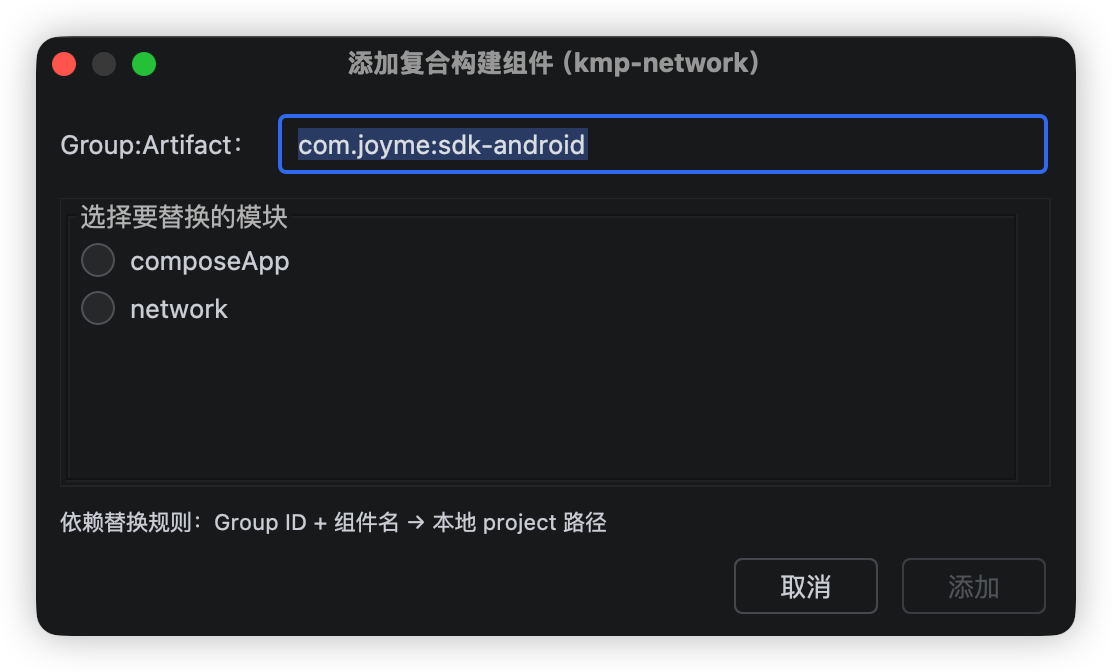
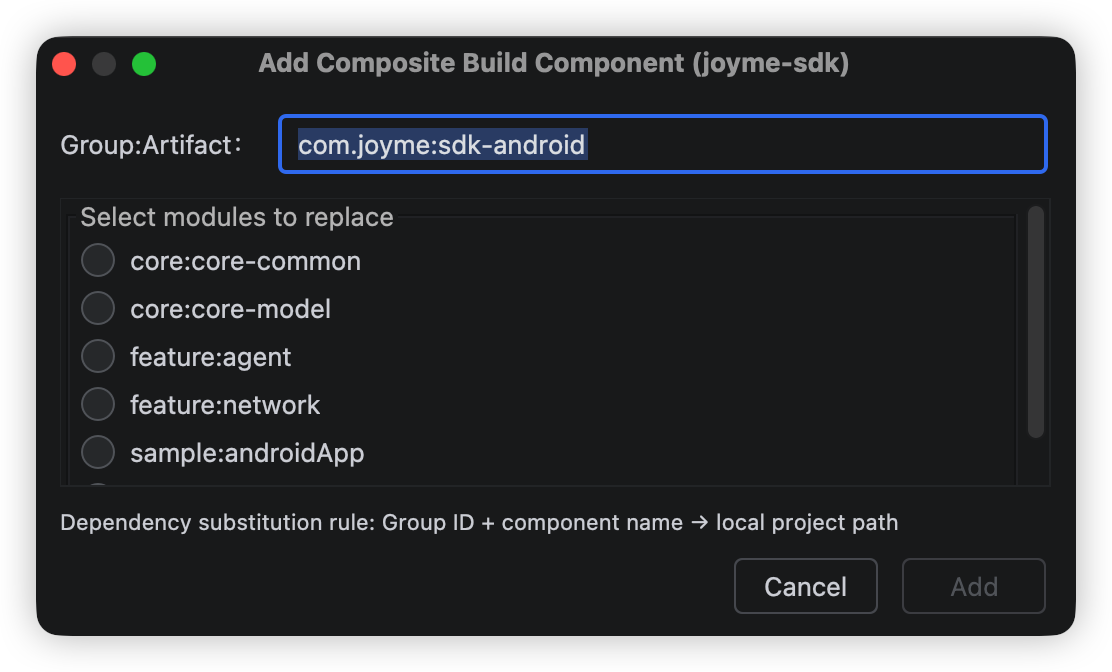
fix(docs): 更新 README 文档并替换截图

diff --git a/README.md b/README.md
@@ -32,7 +32,7 @@
 
 ```bash
 cd composite-build-plugin/
-./gradlew buildPlugin
+./gradlew clean buildPlugin
 ```
 
 构建产物位于：`build/distributions/composite-build-plugin-*.zip`
@@ -47,16 +47,72 @@ cd composite-build-plugin/
 ## 使用
 
 1. 打开工程后，在右侧找到 **Composite Build** Tool Window
-2. 勾选/取消勾选模块的复选框来切换 LOCAL / MAVEN 模式
-3. 点击 **⟳ Sync Gradle** 按钮同步 Gradle
+2. 进入 Settings → Tools → Composite Build Manager，配置组件配置文件路径
+3. 勾选/取消勾选模块的复选框来切换 LOCAL / MAVEN 模式
+4. 点击 **⟳ Sync Gradle** 按钮同步 Gradle
 
 ## 文件关系
 
 | 文件 | 角色 |
 |------|------|
-| `scripts/module_manager/project-repos.json5` | 只读：模块配置中心（模块名、仓库地址、branch） |
+| 组件配置文件（路径在插件设置中配置） | 只读：模块配置中心（模块名、仓库地址、flavorAware 标记） |
 | `~/.gradle/init.d/cbm.gradle` | 插件自动部署的 Gradle init script，负责读取状态文件并动态注入 includeBuild 配置 |
 | `~/.gradle/cbm/<hash>.json` | 插件写入的状态文件，记录当前哪些模块启用了复合构建，由 init script 在构建时读取 |
+
+## 组件配置文件格式说明
+
+文件采用 [JSON5](https://json5.org/) 格式，支持注释和末尾逗号。
+
+### 顶层结构
+
+```json5
+{
+  "repositories": {
+    "<模块名>": { ... },
+    ...
+  }
+}
+```
+
+### 模块键名
+
+与 `gradle/libs.versions.toml` 中 `[libraries]` 部分的键名一一对应（下划线分隔）。插件以此键名在 Version Catalog 和本地目录之间建立映射关系。
+
+### 模块字段
+
+| 字段 | 类型 | 必填 | 说明 |
+|------|------|------|------|
+| `url` | String | 是 | 子模块 Git 仓库的 SSH 地址，点击「↓ 下载」时用于 `git clone` |
+| `flavorAware` | Boolean | 否 | 为 `true` 时，插件会为该模块生成 flavor 维度的依赖替换规则（默认 `false`）|
+
+### 本地目录约定
+
+子模块克隆后存放在与主工程**平级**的 `../<模块名>_project` 目录，例如：
+
+```
+workspace/
+├── jm_android_project/   ← 主工程
+└── jm_network_project/     ← jm_network 模块克隆位置
+```
+
+### 示例
+
+```json5
+{
+  "repositories": {
+    // 普通模块：仅需提供 Git 地址
+    "jm_network": {
+      "url": "xxx:xx/jm_network.git",
+    },
+
+    // flavorAware 模块：需要按 flavor 生成依赖替换规则
+    "jm_manto": {
+      "url": "xxx:xx/manto_project.git",
+      "flavorAware": true
+    },
+  }
+}
+```
 
 ## 兼容性
 
